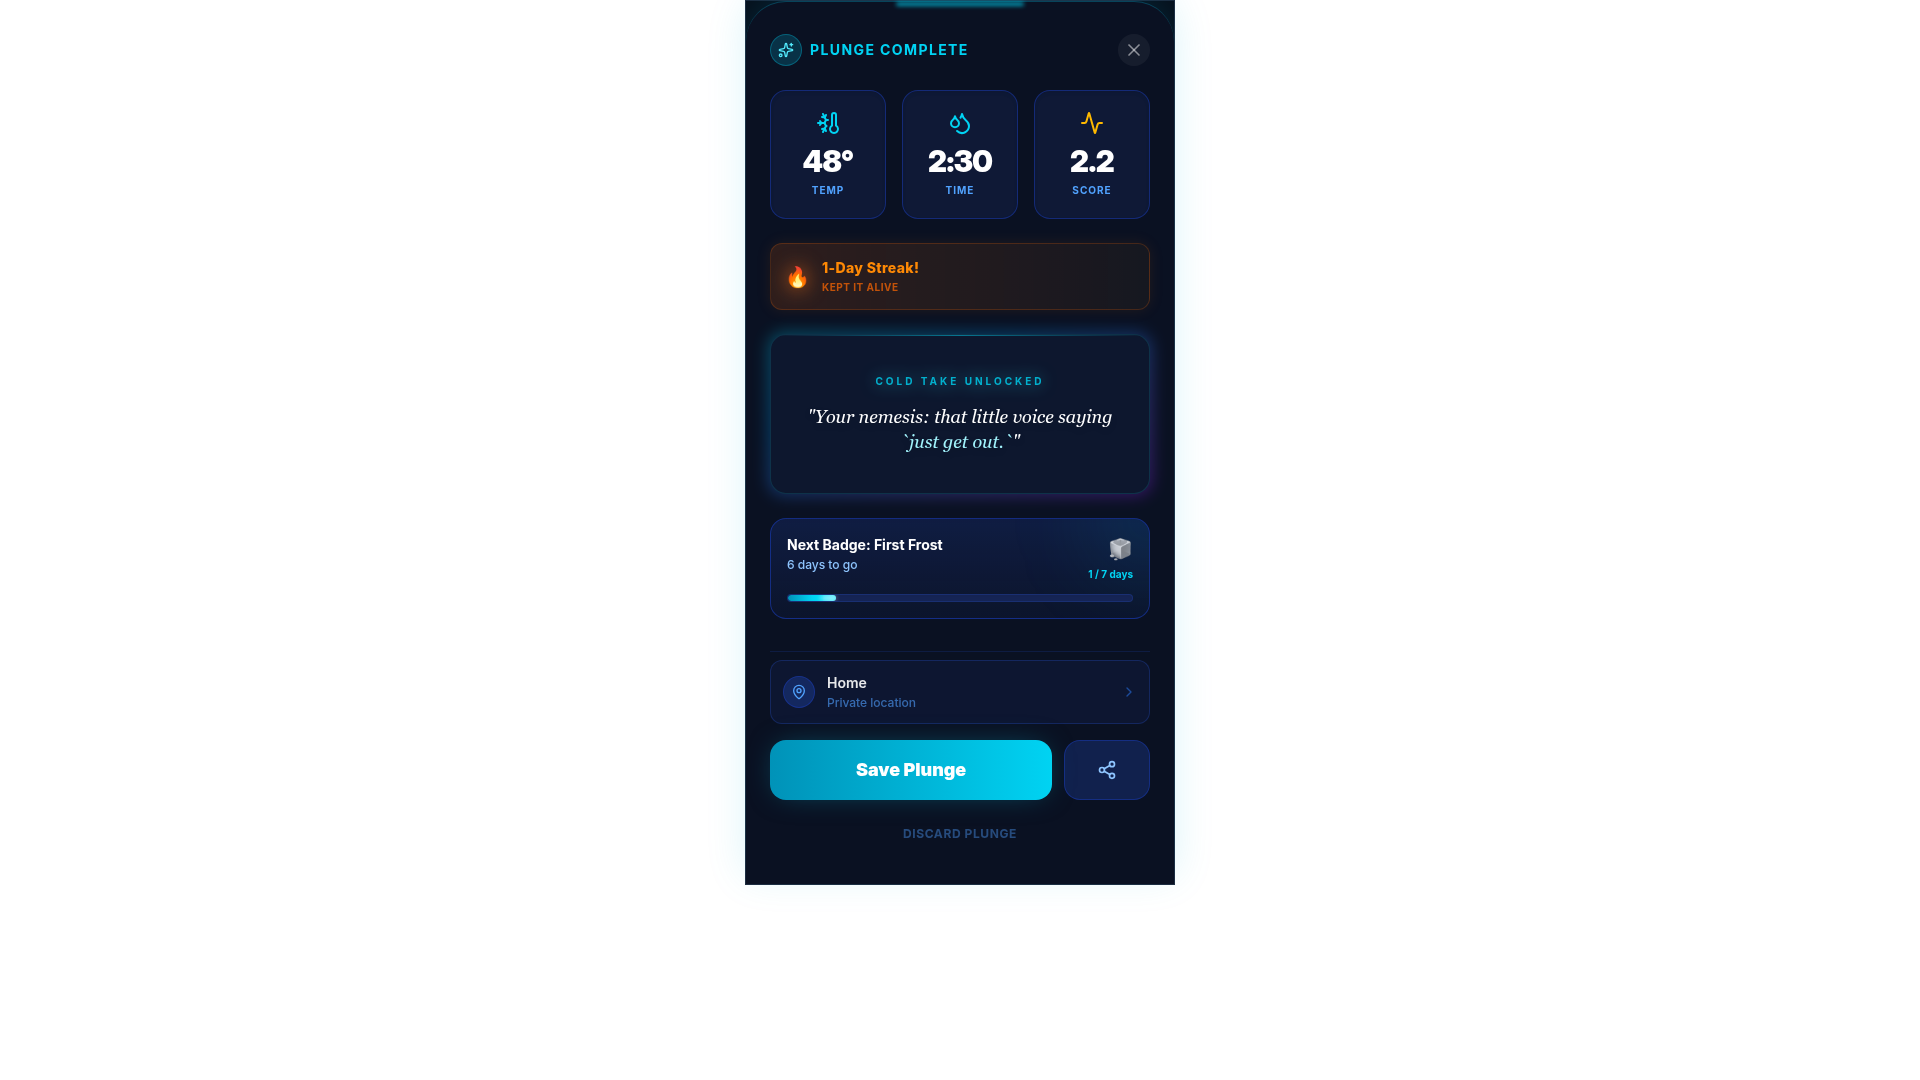
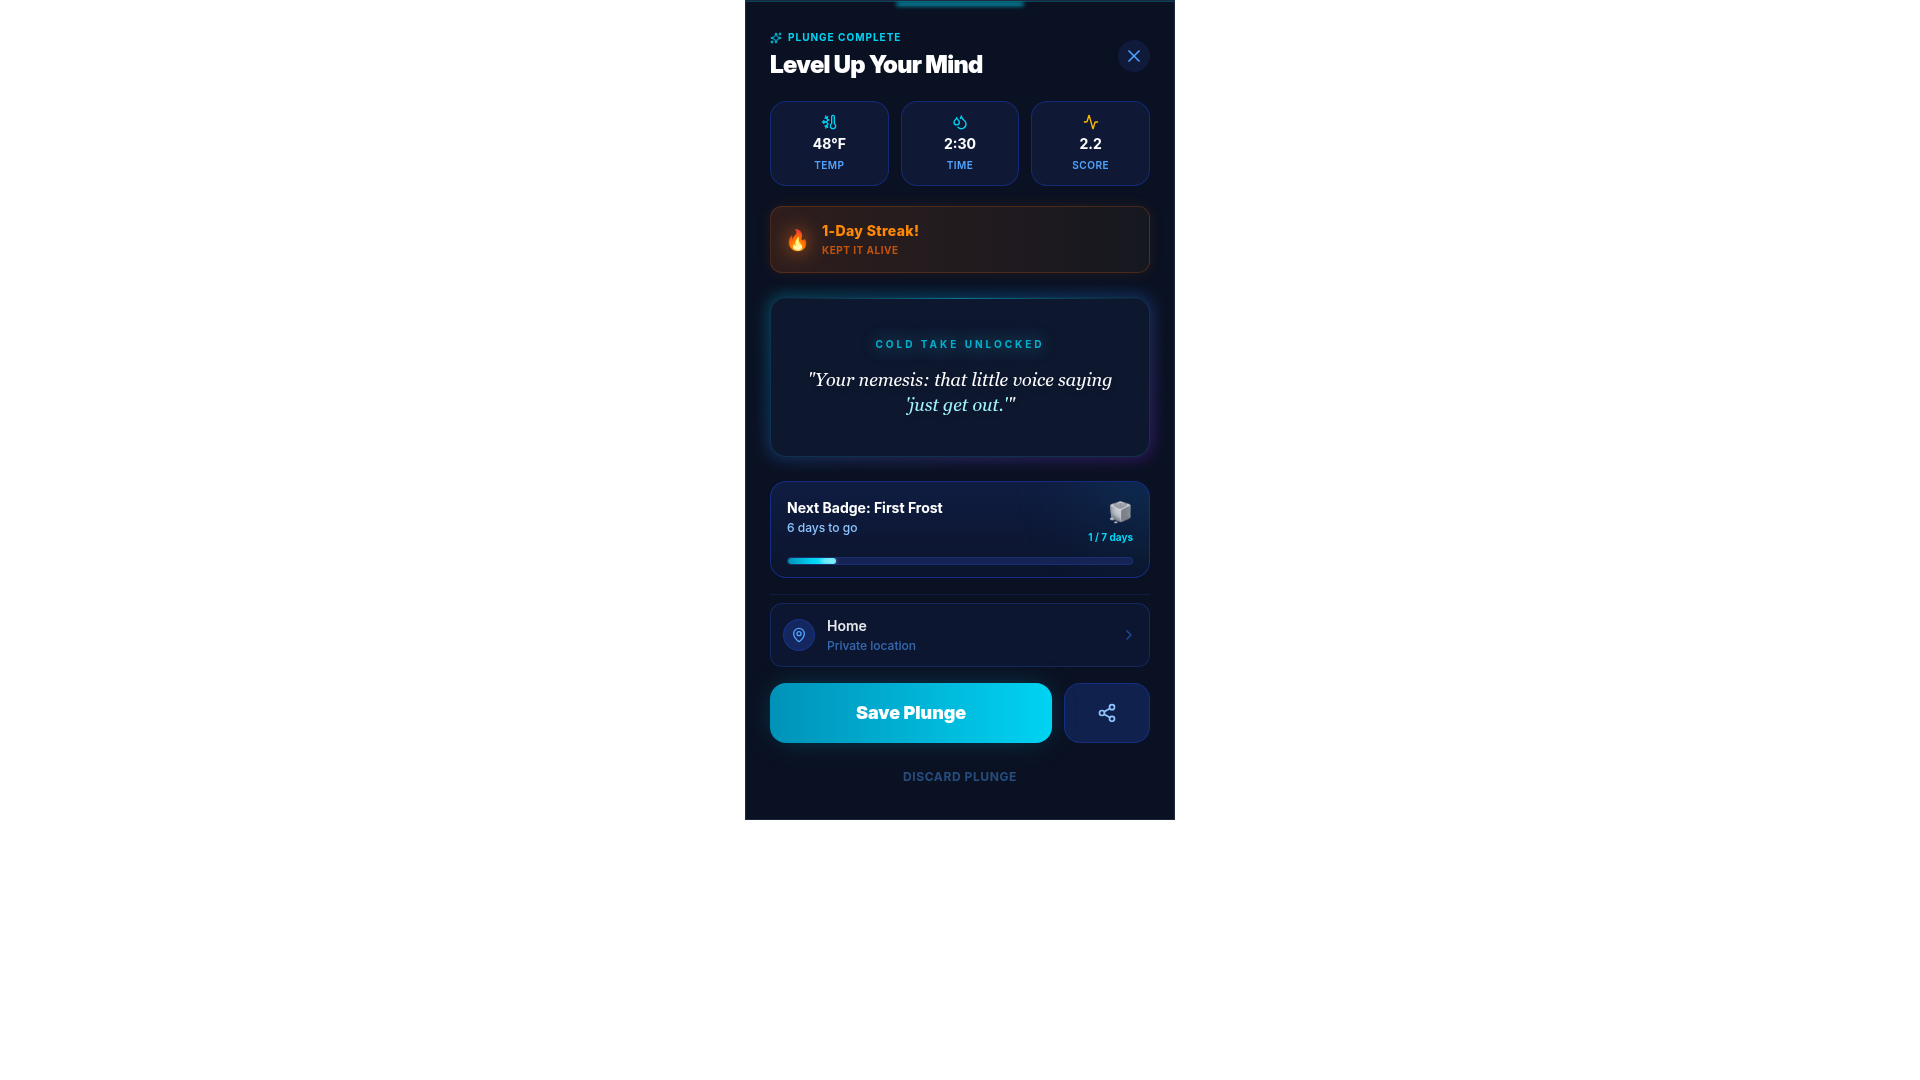
Update plunge completion screen to remove scrollbars and match new design
Adjusted `HybridCombo.tsx` to make the component full-screen, adopted the header styling from the `LevelUp` component, and updated stat tiles to match C's design.

Replit-Commit-Author: Agent
Replit-Commit-Session-Id: 11c16b3a-d784-4ff7-901a-9eb80c03b6f8
Replit-Commit-Checkpoint-Type: full_checkpoint
Replit-Commit-Event-Id: 595e1de4-6d35-4cb8-8c3b-54ee78e96a82
Replit-Commit-Screenshot-Url: https://storage.googleapis.com/screenshot-production-us-central1/6999a82a-9043-4c04-9f8b-e10a8f4fc011/11c16b3a-d784-4ff7-901a-9eb80c03b6f8/kBq0U3C
Replit-Helium-Checkpoint-Created: true

Changed region(s): [[0.375, 0.4278, 0.625, 0.825], [0.375, 0.0306, 0.5938, 0.4278], [0.5938, 0.275, 0.625, 0.3056]]

diff --git a/artifacts/mockup-sandbox/src/components/mockups/plunge-complete/HybridCombo.tsx b/artifacts/mockup-sandbox/src/components/mockups/plunge-complete/HybridCombo.tsx
@@ -17,46 +17,43 @@ export function HybridCombo() {
       {/* Background illustration / texture */}
       <div className="absolute inset-0 bg-[radial-gradient(ellipse_at_top,_var(--tw-gradient-stops))] from-blue-900/20 via-[#060c18] to-[#060c18]"></div>
 
-      {/* Main Sheet */}
-      <div className="relative w-full bg-[#0a1122] border-t border-cyan-500/30 rounded-t-[2.5rem] pt-8 pb-10 px-6 shadow-[0_-10px_40px_rgba(6,182,212,0.15)] flex flex-col h-[90%]">
+      {/* Main Sheet — full screen, no internal scroll */}
+      <div className="relative w-full bg-[#0a1122] border-t border-cyan-500/30 pt-7 pb-8 px-6 shadow-[0_-10px_40px_rgba(6,182,212,0.15)] flex flex-col h-full">
         
         {/* Glow edge indicator */}
         <div className="absolute top-0 left-1/2 -translate-x-1/2 w-32 h-1 bg-cyan-400 rounded-full blur-[2px] opacity-70"></div>
         
-        {/* Header */}
-        <div className="flex justify-between items-center mb-6 shrink-0">
-           <div className="flex items-center gap-2">
-             <div className="w-8 h-8 rounded-full bg-cyan-500/20 flex items-center justify-center border border-cyan-400/30">
-               <Sparkles className="w-4 h-4 text-cyan-300" />
-             </div>
-             <span className="text-cyan-400 font-bold text-sm tracking-widest uppercase">Plunge Complete</span>
-           </div>
-           <button className="w-8 h-8 flex items-center justify-center rounded-full bg-white/5 text-white/50 hover:text-white transition-colors">
-             <X className="w-5 h-5" />
-           </button>
+        {/* Header (LevelUp style) */}
+        <div className="flex items-center justify-between mb-5 shrink-0">
+          <div>
+            <div className="text-cyan-400 font-bold uppercase tracking-widest text-[10px] flex items-center gap-1.5 mb-1">
+              <Sparkles className="w-3 h-3" /> Plunge Complete
+            </div>
+            <h2 className="text-white font-black text-2xl tracking-tight">Level Up Your Mind</h2>
+          </div>
+          <button className="w-8 h-8 rounded-full bg-blue-950/50 flex items-center justify-center text-blue-400 hover:text-white hover:bg-blue-900 transition-colors">
+            <X className="w-5 h-5" />
+          </button>
         </div>
 
-        <div className="flex-1 overflow-y-auto pb-4 scrollbar-none">
-          {/* Hero Stats (CelebrationFirst sizing + LevelUp colors) */}
-          <div className="grid grid-cols-3 gap-4 mb-6">
-             <div className="flex flex-col items-center justify-center py-5 px-2 rounded-2xl bg-blue-950/40 border border-blue-800/50 relative overflow-hidden group shadow-inner">
-               <div className="absolute inset-0 bg-gradient-to-br from-cyan-500/10 to-transparent opacity-0 group-hover:opacity-100 transition-opacity"></div>
-               <ThermometerSnowflake className="w-6 h-6 text-cyan-400 mb-2" />
-               <span className="text-3xl font-black text-white tracking-tight">48°</span>
-               <span className="text-[10px] text-blue-400 font-bold uppercase tracking-widest mt-1">Temp</span>
-             </div>
-             <div className="flex flex-col items-center justify-center py-5 px-2 rounded-2xl bg-blue-950/40 border border-blue-800/50 relative overflow-hidden group shadow-inner">
-               <div className="absolute inset-0 bg-gradient-to-br from-blue-500/10 to-transparent opacity-0 group-hover:opacity-100 transition-opacity"></div>
-               <Droplets className="w-6 h-6 text-cyan-400 mb-2" />
-               <span className="text-3xl font-black text-white tracking-tight">2:30</span>
-               <span className="text-[10px] text-blue-400 font-bold uppercase tracking-widest mt-1">Time</span>
-             </div>
-             <div className="flex flex-col items-center justify-center py-5 px-2 rounded-2xl bg-blue-950/40 border border-blue-800/50 relative overflow-hidden group shadow-inner">
-               <div className="absolute inset-0 bg-gradient-to-br from-amber-500/10 to-transparent opacity-0 group-hover:opacity-100 transition-opacity"></div>
-               <Activity className="w-6 h-6 text-amber-400 mb-2" />
-               <span className="text-3xl font-black text-white tracking-tight">2.2</span>
-               <span className="text-[10px] text-blue-400 font-bold uppercase tracking-widest mt-1">Score</span>
-             </div>
+        <div className="flex-1 flex flex-col justify-start min-h-0">
+          {/* Stats Row (LevelUp tiles) */}
+          <div className="flex items-center gap-3 mb-5">
+            <div className="flex-1 bg-blue-950/40 border border-blue-800/50 rounded-2xl p-3 flex flex-col items-center justify-center gap-1">
+              <ThermometerSnowflake className="w-4 h-4 text-cyan-400" />
+              <span className="text-white font-bold text-sm">48°F</span>
+              <span className="text-blue-400 text-[10px] uppercase tracking-wider font-semibold">Temp</span>
+            </div>
+            <div className="flex-1 bg-blue-950/40 border border-blue-800/50 rounded-2xl p-3 flex flex-col items-center justify-center gap-1">
+              <Droplets className="w-4 h-4 text-cyan-400" />
+              <span className="text-white font-bold text-sm">2:30</span>
+              <span className="text-blue-400 text-[10px] uppercase tracking-wider font-semibold">Time</span>
+            </div>
+            <div className="flex-1 bg-blue-950/40 border border-blue-800/50 rounded-2xl p-3 flex flex-col items-center justify-center gap-1">
+              <Activity className="w-4 h-4 text-amber-400" />
+              <span className="text-white font-bold text-sm">2.2</span>
+              <span className="text-blue-400 text-[10px] uppercase tracking-wider font-semibold">Score</span>
+            </div>
           </div>
 
           {/* Streak Banner (CelebrationFirst Layout) */}